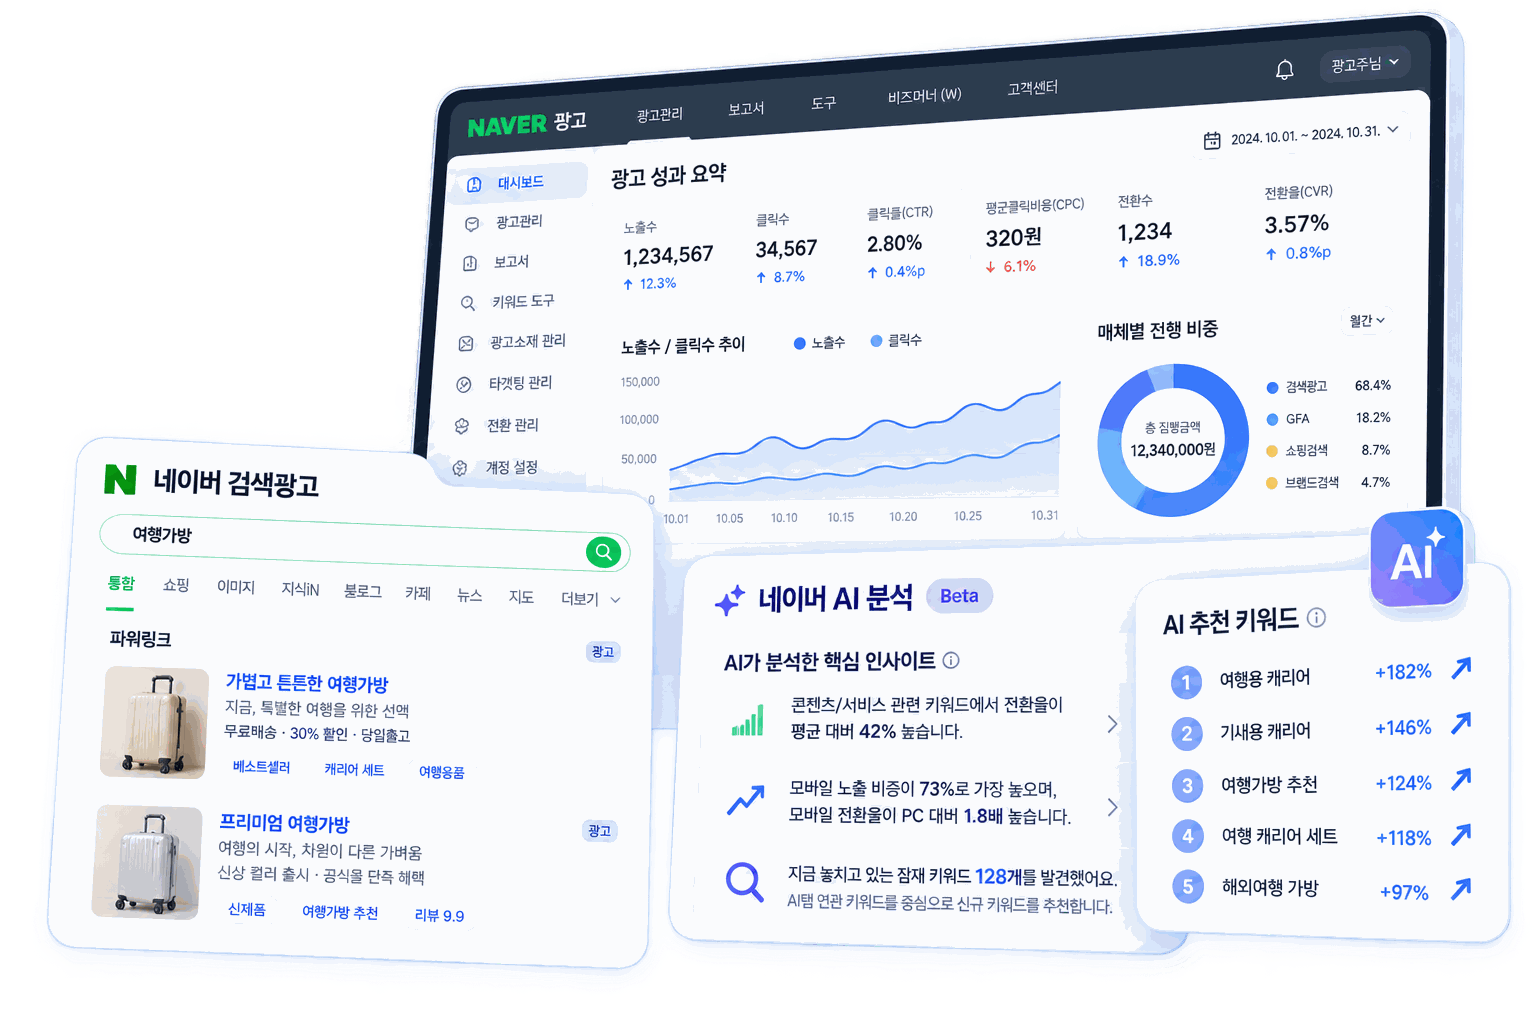
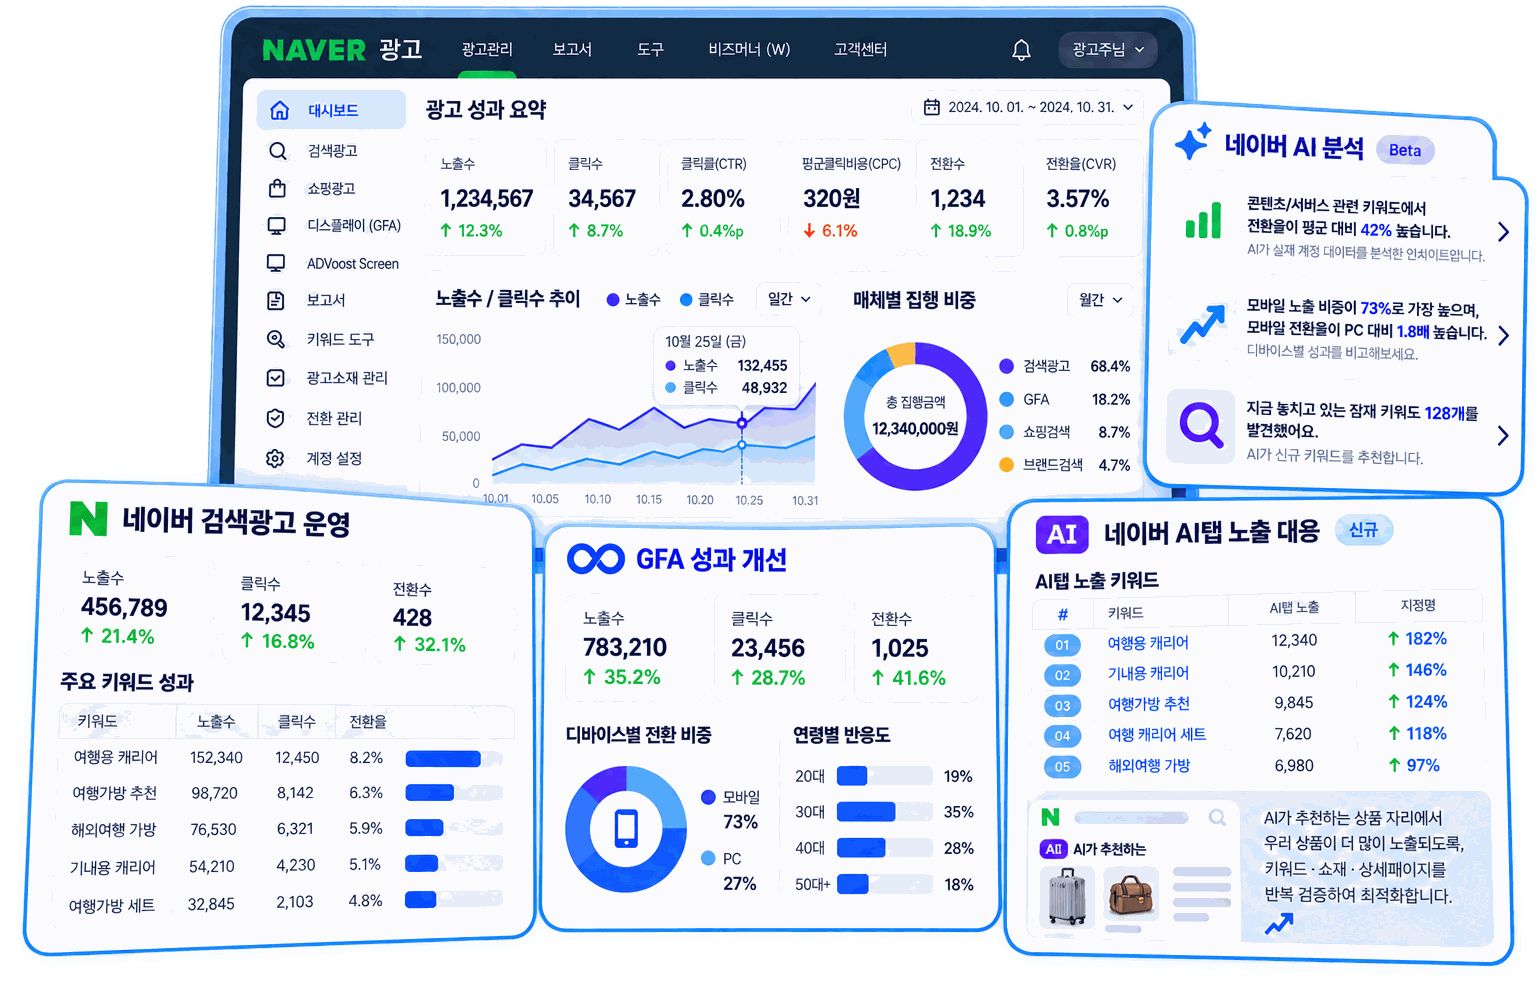
Add files via upload

diff --git a/kimjaeyeon/index.html b/kimjaeyeon/index.html
@@ -75,14 +75,30 @@ a{color:inherit;text-decoration:none}
 .btn-outline{background:#fff;color:var(--ink);border:1px solid #cdd6e8}
 .btn-outline:hover{border-color:var(--blue);color:var(--blue)}
 
-/* hero 예시 이미지 */
-.shot{margin:0;position:relative}
-.shot img{display:block;width:108%;max-width:none;margin-right:-4%;height:auto;aspect-ratio:1536/1012;filter:drop-shadow(0 26px 44px rgba(20,40,110,.18))}
-.shot figcaption{margin-top:10px;text-align:right;font-size:12px;color:var(--mute)}
+/* hero 비주얼: 왼쪽 문구 · 가운데 마케터 · 오른쪽 배경 데이터 (여백 없이 꽉 차게) */
+.hero{min-height:0}
+.hero .wrap{padding-top:0!important;padding-bottom:0!important;align-items:stretch!important;grid-template-columns:.8fr 1.2fr!important;gap:24px!important}
+.hero .wrap>div:first-child{align-self:center;padding:40px 0;position:relative;z-index:3}
+.visual{position:relative;min-height:clamp(560px,40vw,660px)}
+.v-ads,.v-person{position:absolute;display:block}
+.v-ads img{display:block;width:100%;height:auto}
+.v-ads{top:22px;right:-46%;width:146%;filter:drop-shadow(0 26px 44px rgba(20,40,110,.16))}
+.v-person{bottom:0;left:27%;transform:translateX(-50%);height:66%;z-index:2;filter:drop-shadow(0 20px 34px rgba(10,20,60,.24))}
+.v-person img{display:block;height:100%;width:auto}
+.hero::before{content:"";position:absolute;left:40%;bottom:-24%;width:40%;aspect-ratio:1;border-radius:50%;background:radial-gradient(circle,rgba(26,86,255,.18),rgba(26,86,255,0) 62%);pointer-events:none}
+@media(max-width:1060px){
+  .hero .wrap{grid-template-columns:.9fr 1.1fr!important}
+  .visual{min-height:560px}
+  .v-ads{top:60px;right:-40%;width:146%}
+  .v-person{left:24%;height:60%}
+}
 @media(max-width:820px){
-  .hero .wrap{grid-template-columns:1fr;padding-top:44px;padding-bottom:56px;gap:32px}
-  .shot{margin:0 -8px}
-  .shot img{width:100%;margin:0}
+  .hero::before{left:10%;bottom:-10%;width:80%}
+  .hero .wrap{grid-template-columns:1fr!important;gap:0!important}
+  .hero .wrap>div:first-child{padding:40px 0 16px}
+  .visual{min-height:0;aspect-ratio:1/.9;margin:0 -20px}
+  .v-ads{top:0;right:-34%;width:138%}
+  .v-person{left:50%;height:62%}
 }
 
 /* sections */
@@ -286,12 +302,16 @@ footer strong{color:#fff}
       </div>
     </div>
 
-    <figure class="shot">
-      <picture>
+    <div class="visual" aria-hidden="false">
+      <picture class="v-ads">
         <source srcset="hero-ads.webp" type="image/webp">
-        <img src="hero-ads.png" alt="네이버 광고 성과 대시보드, 검색광고, AI 분석과 AI 추천 키워드 예시 화면" width="1536" height="1012">
+        <img src="hero-ads.png" alt="네이버 광고 성과 대시보드와 검색광고·GFA·AI탭 운영 예시 화면" width="1536" height="997">
       </picture>
-    </figure>
+      <picture class="v-person">
+        <source srcset="hero-person.webp" type="image/webp">
+        <img src="hero-person.png" alt="미래아이엔씨 김재연 주임" width="874" height="900">
+      </picture>
+    </div>
   </div>
 </header>
 
